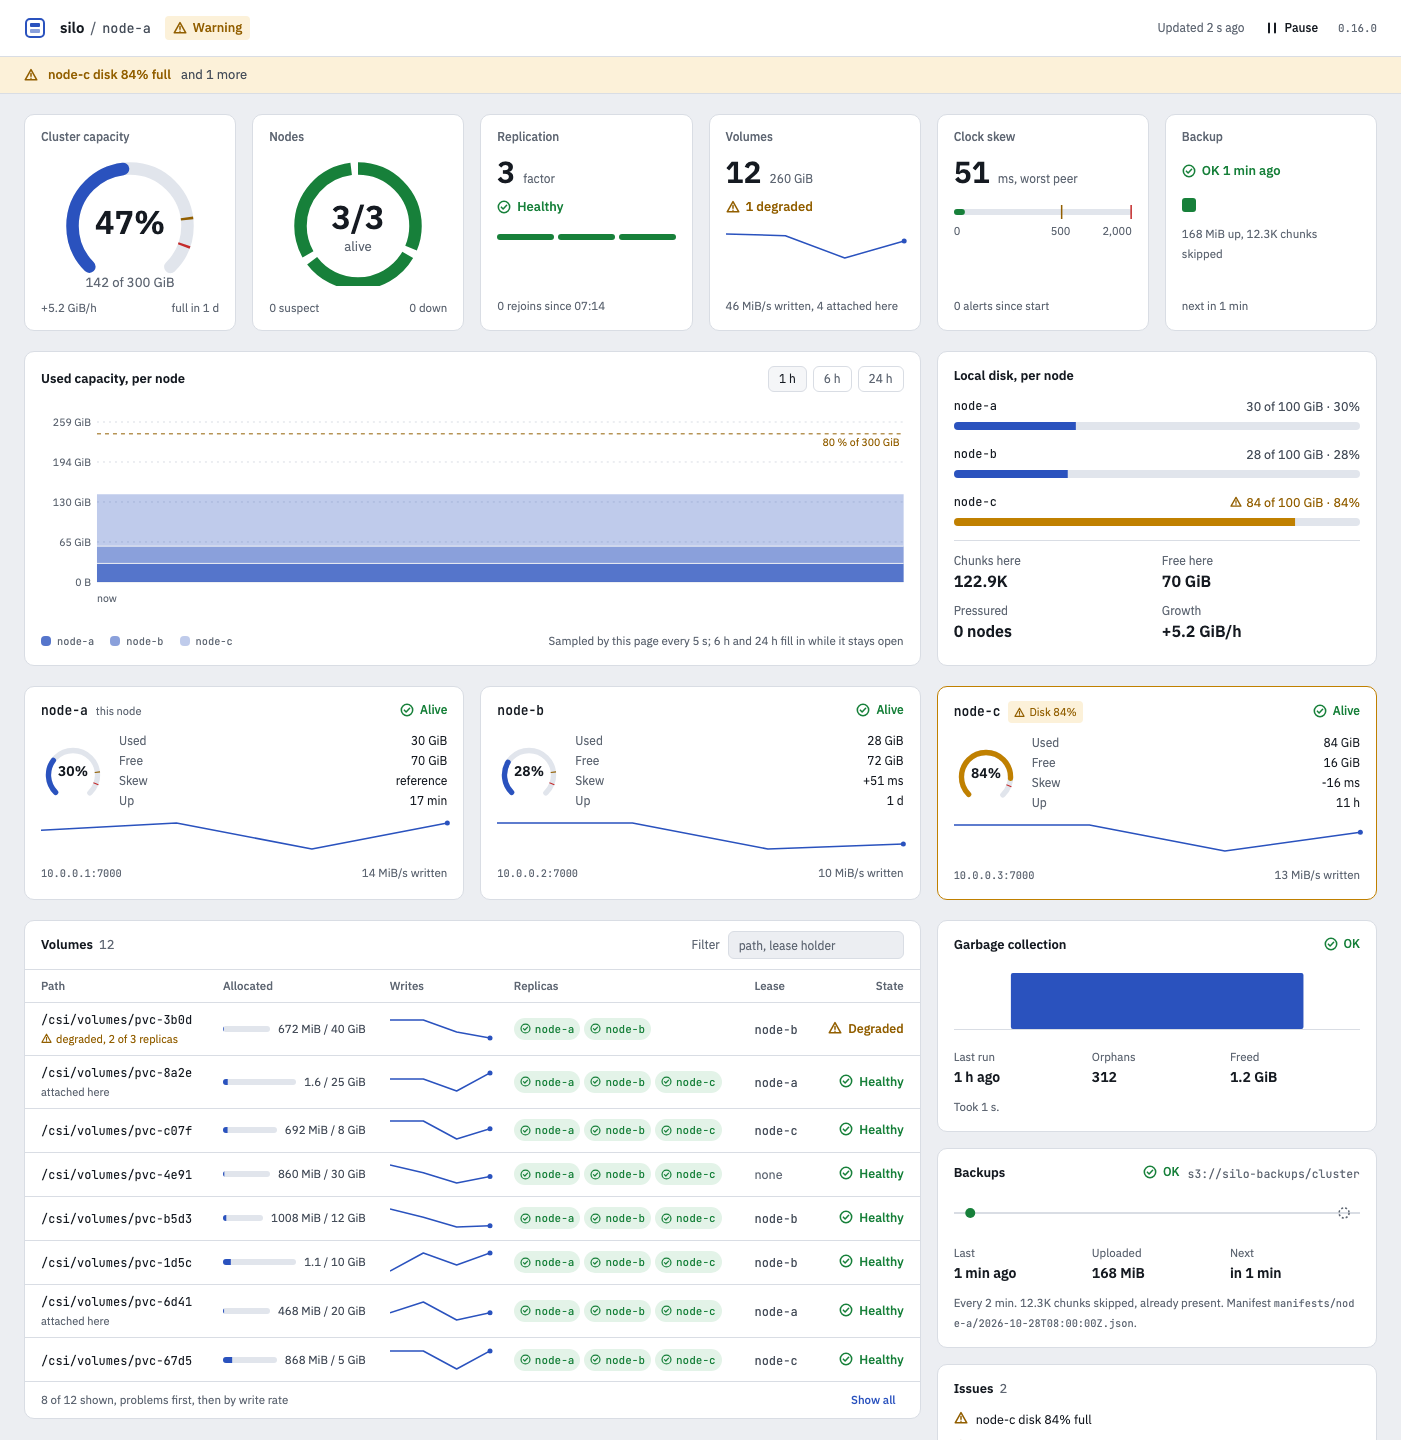
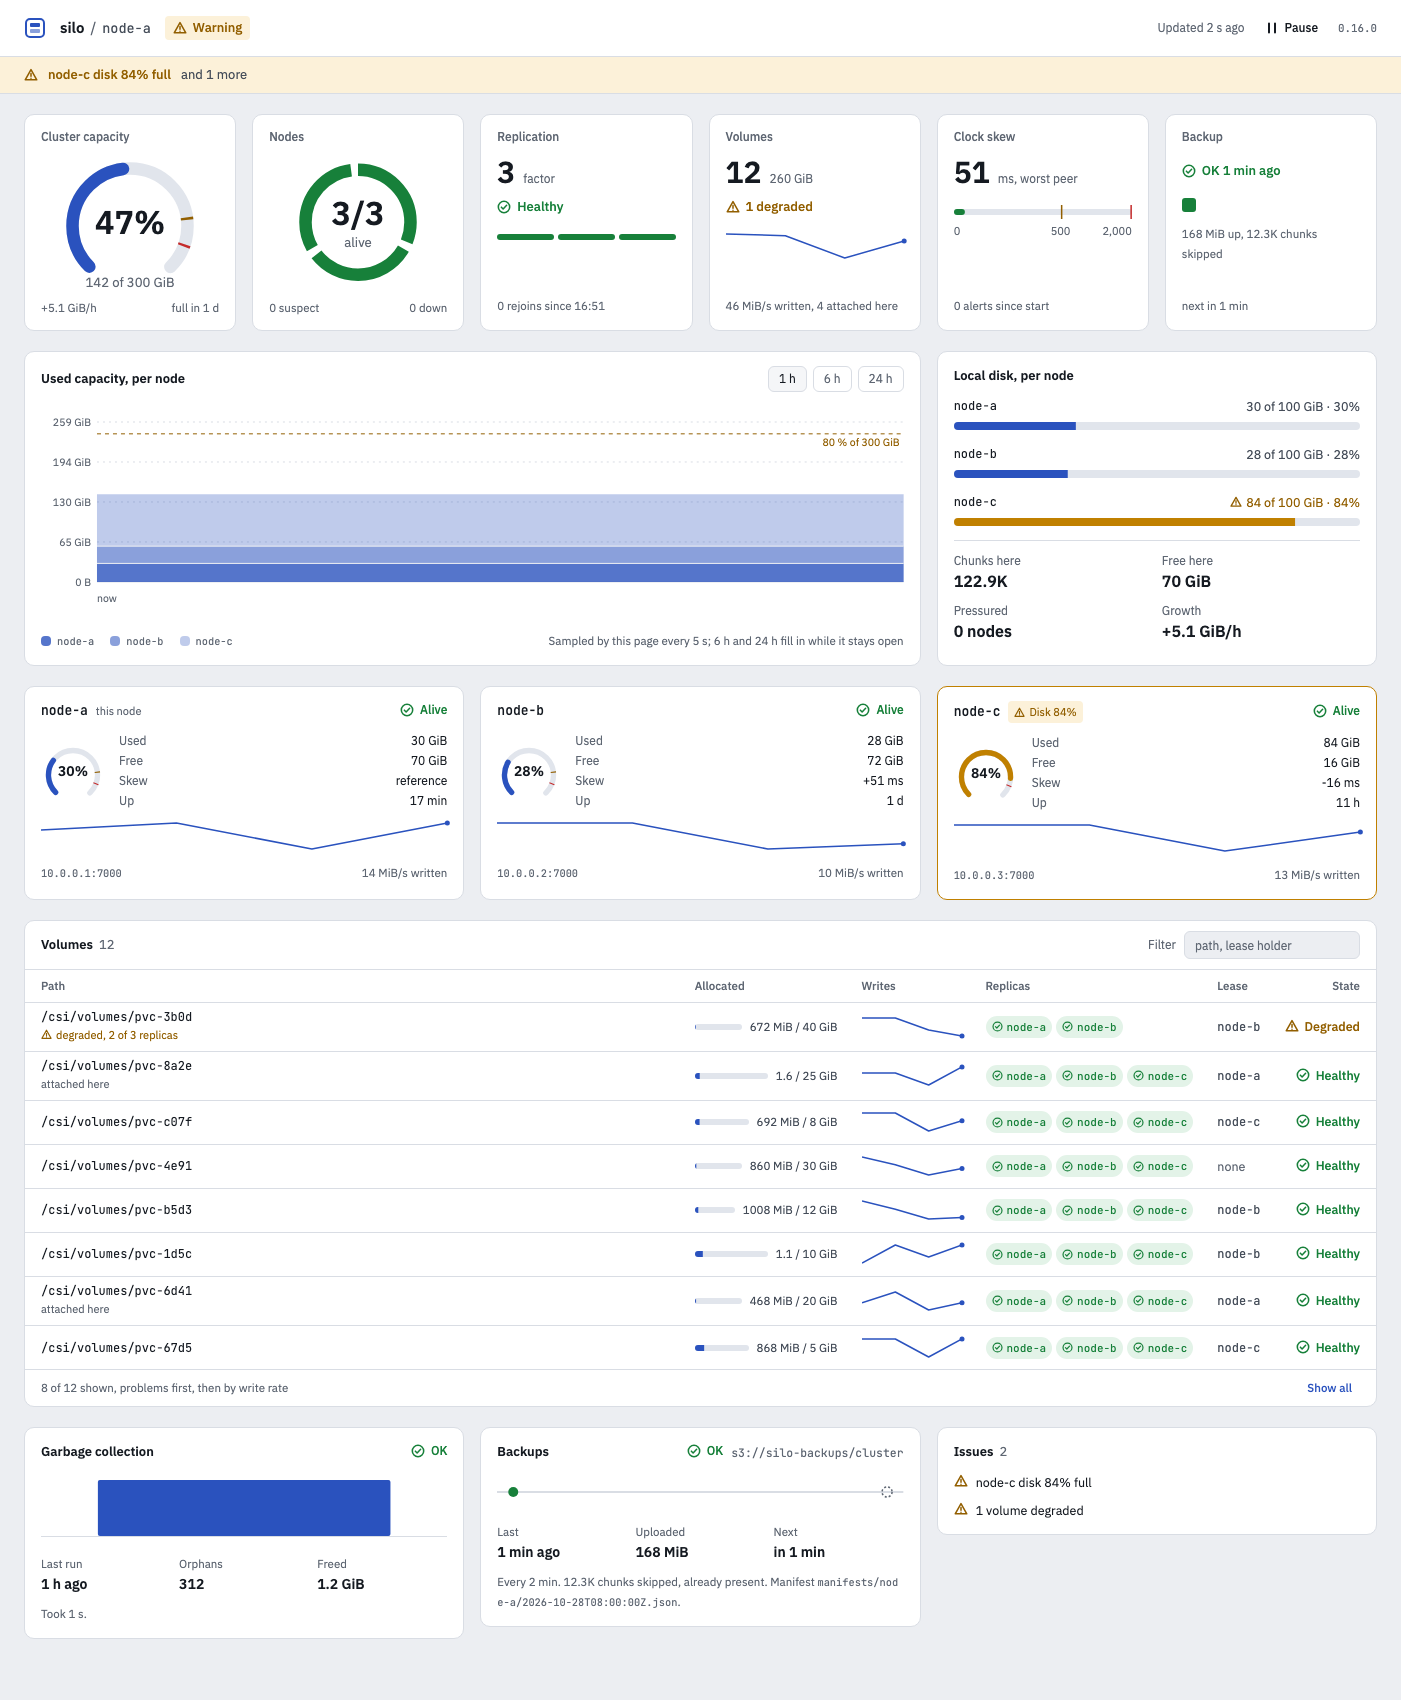
ui: uncrop the node ring, give the volumes table the full width
SegmentRing drew a full circle inside the box it copied from the 270
degree gauge, whose arc stops well above the bottom edge, so the ring's
lowest few units were cut flat. The ring now sits at radius 42 in the same
120x114 box the gauge uses, centred so the stroke clears every edge, and
the two tiles stay level.

The volumes table was sized for a full row but got eight of twelve
columns, so the lease holder column ended up behind a horizontal scroll
bar. The table now spans the page and the garbage collection, backup and
issue cards follow it as a row of three on the wide layout. The path and
lease holder columns truncate with the full text in a title attribute, so
the table fits at 1100 px and above with any path length; the scroll bar
is only a fallback for narrow windows.

diff --git a/ui/src/components/charts/SegmentRing.vue b/ui/src/components/charts/SegmentRing.vue
@@ -21,7 +21,14 @@ const props = withDefaults(
   { caption: '' },
 )
 
-const R = 46
+// Same 120x114 box as the capacity ArcGauge beside it, so the two tiles line up.
+// The full circle reaches R + 5 (half the stroke) on every side; at R = 42 that is
+// 10 units of air top and bottom, roughly where the gauge's arc starts and ends.
+const R = 42
+const CX = 60
+const CY = 57
+// Segments start at twelve o'clock.
+const ROTATE = `rotate(-90 ${String(CX)} ${String(CY)})`
 const GAP = 6
 const ORDER: readonly NodeState[] = ['alive', 'suspect', 'dead', 'left', 'unknown']
 const CAPTION: Readonly<Record<Level, string>> = {
@@ -70,7 +77,7 @@ const ariaLabel = computed(() => {
 <template>
   <svg
     width="100%"
-    viewBox="0 0 120 108"
+    viewBox="0 0 120 114"
     role="img"
     :aria-label="ariaLabel"
     class="block"
@@ -78,8 +85,8 @@ const ariaLabel = computed(() => {
     <circle
       v-if="drawn.length === 0"
       data-part="track"
-      cx="60"
-      cy="60"
+      :cx="CX"
+      :cy="CY"
       :r="R"
       fill="none"
       stroke="var(--c-track)"
@@ -93,33 +100,33 @@ const ariaLabel = computed(() => {
       <title>{{ seg.label }}: {{ seg.state }}</title>
       <circle
         data-part="segment"
-        cx="60"
-        cy="60"
+        :cx="CX"
+        :cy="CY"
         :r="R"
         fill="none"
         :stroke="seg.stroke"
         stroke-width="10"
         :stroke-dasharray="seg.main.dasharray"
         :stroke-dashoffset="seg.main.dashoffset"
-        transform="rotate(-90 60 60)"
+        :transform="ROTATE"
       />
       <circle
         v-if="seg.outline"
         data-part="outline"
-        cx="60"
-        cy="60"
+        :cx="CX"
+        :cy="CY"
         :r="R"
         fill="none"
         stroke="var(--c-ink-3)"
         stroke-width="1.5"
         :stroke-dasharray="seg.outline.dasharray"
         :stroke-dashoffset="seg.outline.dashoffset"
-        transform="rotate(-90 60 60)"
+        :transform="ROTATE"
       />
     </g>
     <text
       x="60"
-      y="62"
+      y="59"
       text-anchor="middle"
       font-size="26"
       font-weight="600"
@@ -128,7 +135,7 @@ const ariaLabel = computed(() => {
     <text
       v-if="caption"
       x="60"
-      y="80"
+      y="77"
       text-anchor="middle"
       font-size="10.5"
       :fill="CAPTION[level]"

diff --git a/ui/src/components/VolumesPanel.spec.ts b/ui/src/components/VolumesPanel.spec.ts
@@ -47,7 +47,7 @@ describe('VolumesPanel', () => {
 
     it('names the state of each chip in its title and for screen readers', () => {
       const v = volume({ replicas: ['node-a', 'node-b', 'node-c', 'node-z'] })
-      const chips = panel({ volumes: [v], nodes }).findAll('[title]').filter((e) => e.text().startsWith('node-'))
+      const chips = panel({ volumes: [v], nodes }).findAll('[data-label="Replicas"] [title]').filter((e) => e.text().startsWith('node-'))
       expect(chips.map((c) => c.attributes('title'))).toEqual([
         'node-a: Alive',
         'node-b: Suspect',
@@ -134,6 +134,31 @@ describe('VolumesPanel', () => {
     it('shows the lease holder', () => {
       const w = panel({ volumes: [volume({ leaseHolder: 'node-b' })] })
       expect(w.get('[data-label="Lease"]').text()).toBe('node-b')
+    })
+
+    it('truncates a long lease holder from 640 px on, keeping the full name in its title', () => {
+      const span = panel({ volumes: [volume({ leaseHolder: 'node-b' })] }).get('[data-label="Lease"] span')
+      expect(span.classes()).toEqual(expect.arrayContaining(['sm:truncate', 'sm:max-w-48']))
+      expect(span.attributes('title')).toBe('node-b')
+    })
+  })
+
+  describe('path column', () => {
+    const long = '/csi/volumes/pvc-0123456789abcdef0123456789abcdef'
+
+    it('takes the width the other columns leave and truncates into it, so the table does not scroll', () => {
+      const w = panel({ volumes: [volume({ path: long })] })
+      const cell = w.get('tbody th[scope="row"]')
+      expect(cell.classes()).toEqual(expect.arrayContaining(['sm:w-full', 'sm:max-w-0', 'sm:min-w-48']))
+      const span = cell.get('span')
+      expect(span.classes()).toContain('sm:truncate')
+      expect(span.attributes('title')).toBe(long)
+      expect(span.text()).toBe(long)
+    })
+
+    it('sets no minimum width on the table itself', () => {
+      const w = panel({ volumes: [volume()] })
+      expect(w.get('table').classes().some((c) => c.includes('min-w'))).toBe(false)
     })
   })
 

diff --git a/ui/src/components/VolumesPanel.vue b/ui/src/components/VolumesPanel.vue
@@ -146,7 +146,7 @@ function replica(id: string) {
       v-else
       class="overflow-x-auto"
     >
-      <table class="stack w-full text-left text-[12.5px] sm:min-w-[720px]">
+      <table class="stack w-full text-left text-[12.5px]">
         <thead>
           <tr>
             <th
@@ -222,11 +222,18 @@ function replica(id: string) {
             :key="r.v.path"
             class="border-t border-rule hover:bg-raise sm:h-11"
           >
+            <!--
+              width 100% with max-width 0 makes an auto-layout table give this column whatever the
+              others leave, so a long path truncates instead of pushing the table into a scrollbar.
+            -->
             <th
               scope="row"
-              :class="[TD, 'pl-4 font-normal']"
+              :class="[TD, 'pl-4 font-normal sm:w-full sm:max-w-0 sm:min-w-48']"
             >
-              <span class="font-mono text-xs break-all sm:break-normal sm:whitespace-nowrap">{{ r.v.path }}</span>
+              <span
+                class="block font-mono text-xs break-all sm:truncate"
+                :title="r.v.path"
+              >{{ r.v.path }}</span>
               <span
                 v-if="r.v.mapDamaged || r.degraded || r.v.attachedHere"
                 class="flex flex-wrap gap-x-2 text-[11px]"
@@ -310,7 +317,8 @@ function replica(id: string) {
             >
               <span
                 v-if="r.v.leaseHolder"
-                class="font-mono text-xs break-all text-ink-2 sm:break-normal sm:whitespace-nowrap"
+                class="block font-mono text-xs break-all text-ink-2 sm:max-w-48 sm:truncate"
+                :title="r.v.leaseHolder"
               >{{ r.v.leaseHolder }}</span>
               <span
                 v-else

diff --git a/ui/src/components/charts/SegmentRing.spec.ts b/ui/src/components/charts/SegmentRing.spec.ts
@@ -14,9 +14,20 @@ describe('SegmentRing', () => {
   it('splits the ring into one segment per member, starting at the top', () => {
     const segs = ring(['alive', 'alive', 'alive']).findAll('[data-part="segment"]')
     expect(segs).toHaveLength(3)
-    expect(segs.map((s) => s.attributes('stroke-dashoffset'))).toEqual(['0', '-96.34', '-192.68'])
-    expect(segs[0]?.attributes('stroke-dasharray')).toBe('90.34 198.68')
-    expect(segs[0]?.attributes('transform')).toBe('rotate(-90 60 60)')
+    expect(segs.map((s) => s.attributes('stroke-dashoffset'))).toEqual(['0', '-87.96', '-175.93'])
+    expect(segs[0]?.attributes('stroke-dasharray')).toBe('81.96 181.93')
+    expect(segs[0]?.attributes('transform')).toBe('rotate(-90 60 57)')
+  })
+
+  it('fits the whole ring inside the same 120 x 114 box as the capacity gauge', () => {
+    const w = ring(['alive'])
+    expect(w.get('svg').attributes('viewBox')).toBe('0 0 120 114')
+    const c = w.get('[data-part="segment"]')
+    const [cy, r] = [Number(c.attributes('cy')), Number(c.attributes('r'))]
+    const half = Number(c.attributes('stroke-width')) / 2
+    expect(cy - r - half).toBeGreaterThan(0)
+    expect(cy + r + half).toBeLessThan(114)
+    expect(Number(c.attributes('cx')) + r + half).toBeLessThan(120)
   })
 
   it('styles each state by colour and line', () => {
@@ -51,7 +62,7 @@ describe('SegmentRing', () => {
   })
 
   it('draws one member as the whole ring', () => {
-    expect(ring(['alive']).get('[data-part="segment"]').attributes('stroke-dasharray')).toBe('289.03 0')
+    expect(ring(['alive']).get('[data-part="segment"]').attributes('stroke-dasharray')).toBe('263.89 0')
   })
 
   it('draws only the track with no members', () => {

diff --git a/ui/src/App.vue b/ui/src/App.vue
@@ -181,27 +181,24 @@ const volumeSparks = computed(() =>
         :sparks="nodeSparks"
       />
 
-      <div class="grid items-start gap-4 max-sm:gap-3.5 wide:grid-cols-12">
-        <VolumesPanel
-          class="wide:col-span-8"
-          :volumes="data?.volumes ?? null"
-          :nodes="data?.nodes ?? []"
-          :replication-factor="data?.health?.replicationFactor ?? 0"
-          :sparks="volumeSparks"
+      <VolumesPanel
+        :volumes="data?.volumes ?? null"
+        :nodes="data?.nodes ?? []"
+        :replication-factor="data?.health?.replicationFactor ?? 0"
+        :sparks="volumeSparks"
+      />
+      <div class="grid items-start gap-4 max-sm:gap-3.5 wide:grid-cols-3">
+        <GcPanel
+          :gc="data ? data.gc : undefined"
+          :runs="history.gcRuns.value"
+          :now="now"
         />
-        <div class="flex min-w-0 flex-col gap-4 max-sm:gap-3.5 wide:col-span-4">
-          <GcPanel
-            :gc="data ? data.gc : undefined"
-            :runs="history.gcRuns.value"
-            :now="now"
-          />
-          <BackupPanel
-            :backup="data ? data.backup : undefined"
-            :runs="history.backupRuns.value"
-            :now="now"
-          />
-          <IssueList :findings="health?.findings ?? null" />
-        </div>
+        <BackupPanel
+          :backup="data ? data.backup : undefined"
+          :runs="history.backupRuns.value"
+          :now="now"
+        />
+        <IssueList :findings="health?.findings ?? null" />
       </div>
     </template>
   </main>

diff --git a/ui/src/App.spec.ts b/ui/src/App.spec.ts
@@ -83,6 +83,18 @@ describe('App', () => {
     expect(w.get('[aria-labelledby=gc-title]').text()).toContain('1 h ago')
   })
 
+  it('gives the volumes table the full width and sets GC, Backups and Issues in a row of three under it', async () => {
+    fetchMock.mockResolvedValue(status({ gc: gc() }))
+    const w = await mountApp()
+    const volumes = w.getComponent({ name: 'VolumesPanel' })
+    expect(volumes.element.parentElement).toBe(w.get('main').element)
+    const row = w.getComponent({ name: 'GcPanel' }).element.parentElement as HTMLElement
+    expect(row.className.split(' ')).toEqual(expect.arrayContaining(['grid', 'items-start', 'wide:grid-cols-3']))
+    expect(row.previousElementSibling).toBe(volumes.element)
+    expect(w.getComponent({ name: 'BackupPanel' }).element.parentElement).toBe(row)
+    expect(w.getComponent({ name: 'IssueList' }).element.parentElement).toBe(row)
+  })
+
   it('says not reported for an older silod', async () => {
     fetchMock.mockResolvedValue(status())
     const w = await mountApp()

diff --git a/ui/src/components/tiles/NodesTile.spec.ts b/ui/src/components/tiles/NodesTile.spec.ts
@@ -14,7 +14,7 @@ const n = (id: string, state: ClusterNode['state']) => node({ id, state })
 describe('NodesTile', () => {
   it('shows a skeleton and no footer while loading', () => {
     const w = tile(null)
-    expect(w.findComponent(Skeleton).exists()).toBe(true)
+    expect(w.findComponent(Skeleton).classes()).toContain('aspect-[120/114]')
     expect(w.text()).not.toContain('suspect')
     expect(w.text()).not.toContain('down')
   })

diff --git a/ui/src/components/tiles/NodesTile.vue b/ui/src/components/tiles/NodesTile.vue
@@ -30,7 +30,7 @@ const down = computed(() => active.value.filter((n) => n.state === 'dead').lengt
     <div class="mx-auto w-full max-w-[150px]">
       <Skeleton
         v-if="nodes === null"
-        class="aspect-[120/108] w-full rounded-full"
+        class="aspect-[120/114] w-full rounded-full"
       />
       <SegmentRing
         v-else

diff --git a/ui/DESIGN.md b/ui/DESIGN.md
@@ -103,30 +103,33 @@ for it rather than the source.
 | gauge, used, free,     | | ...                   | | amber border             |
 | skew, up; spark; addr  | |                       | |                          |
 +------------------------+ +-----------------------+ +--------------------------+
-+-- Volumes ------------------------- Filter [ ] -+ +-- Garbage collection -----+
-| path (+ markers), allocated, writes, replicas,   | | run bars, last / orphans /|
-| lease, state; problems first; 8 then Show all    | | freed, failure sentence   |
-+------------------------------------------- 8/12-+ +-- Backups ----------------+
-                                                     | run dots, last / uploaded |
-                                                     | / next, schedule, manifest|
-                                                     +-- Issues -----------------+
-                                                     | full list           4/12  |
-                                                     +---------------------------+
++-- Volumes ------------------------------------------------------- Filter [ ] -+
+| path (+ markers, truncated to fit), allocated, writes, replicas, lease,       |
+| state; problems first; 8 then Show all                             full width |
++-------------------------------------------------------------------------------+
++-- Garbage collection --+ +-- Backups ------------+ +-- Issues ----------------+
+| run bars, last /       | | run dots, last /      | | full list                |
+| orphans / freed,       | | uploaded / next,      | |                          |
+| failure sentence       | | schedule, manifest    | |                          |
++------------------------+ +-----------------------+ +--------------------------+
 ```
 
 Max width 1440 px, 24 px side gutter (16 px on a phone). From 1100 px: six tiles in a
-row, the 8 / 4 column split, three node cards per row. From 640 px: tiles three per
+row, the 8 / 4 column split, three node cards per row, and GC, Backups and Issues side
+by side under the full-width volume table. From 640 px: tiles three per
 row. Below 640 px: tiles two per row, every card full width, and each volume row turns
-into a key / value block so nothing scrolls sideways. Between 640 and 1100 px the
-volume table scrolls inside its card rather than squeezing paths onto several lines.
+into a key / value block so nothing scrolls sideways. From 640 px the path column takes
+the width the other columns leave and long paths end in an ellipsis, with the full path
+in a tooltip; the table only scrolls inside its card when even a 192 px path column does
+not fit, which happens below 1100 px.
 
 Cards are flat: 1 px border, 10 px radius, no shadow. A card in trouble (a node with a
 full disk or that is down) changes its border to warn or crit; the tag or badge inside
 says why.
 
 The issue strip under the top bar shows the worst issue only, so the reason for an
-amber or red pill is readable without scrolling. The full list sits in the side column
-under GC and Backups, which on narrow screens falls below the tables; the strip keeps
+amber or red pill is readable without scrolling. The full list sits in the Issues card
+beside GC and Backups, which on narrow screens stacks below them; the strip keeps
 the most important line in view there too.
 
 The volume table sorts map-damaged volumes first, then degraded ones, then by current
